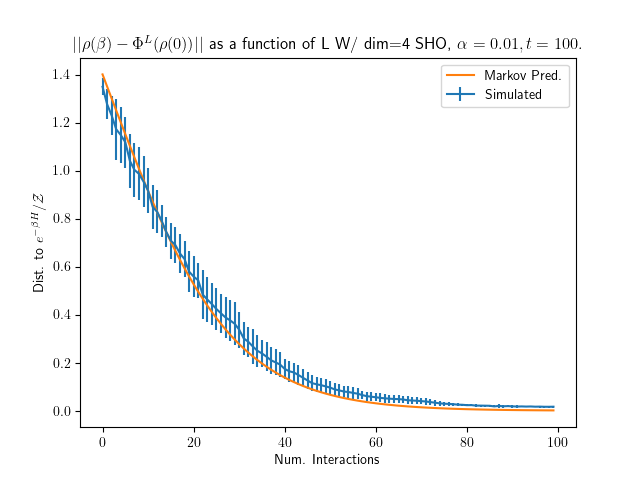
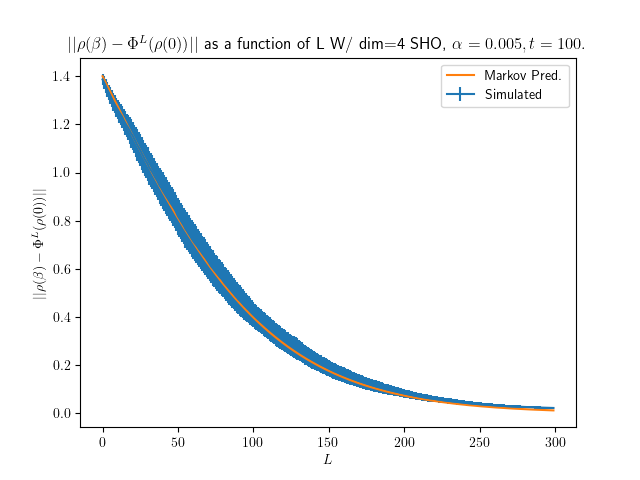
more data

diff --git a/numerics/qhmc.py b/numerics/qhmc.py
@@ -397,58 +397,51 @@ def test_beta():
         print("beta: ", beta)
         print("output error: ", qhmc.compute_error_with_target_beta())
 
-if __name__ == "__main__":
-    start = time_this.time()
-    alphas = np.linspace(0.0005, 2 * 0.0005, 2)
+def plot_sho_error_v_interaction():
+    
     time = 100.
-    epsilon = 0.05
-    n_int = 100
+    n_int = 300
     beta = 3.0
-    alpha = 0.01
+    alpha = 0.005
     dim = 4
-    # for alpha in alphas:
-    #     print('alpha = ', alpha)
-    #     (dist_means, dist_stds) = fixed_number_interactions(alpha, time, beta, n, num_samples=2)
-    #     end = time_this.time()
-        
-    #     print("took this many seconds: ", end - start)
-    #     plt.errorbar([ix for ix in range(1, n + 1)], dist_means, dist_stds, label="alpha=" + str(alpha))
-
-    # s = r"Error vs. number of interactions For Hydrogen 3 chain. $t = $"
-    # s += str(time)
-    # plt.xlabel("Num. Interactions")
-    # plt.ylabel(r"$|| \rho(\beta) - \Phi^L(\rho(0))||$")
-    # plt.title(s)
-    # plt.legend(loc="upper right")
-    # plt.savefig('/u/hagan/h3_chain_4')
-
     x = [ix for ix in range(n_int)]
-    y, yerr = fixed_number_interactions(harmonic_oscillator_hamiltonian(dim), alpha, time, beta, n_int, num_samples=8, gamma_strategy='fixed')
+    y, yerr = fixed_number_interactions(harmonic_oscillator_hamiltonian(dim), alpha, time, beta, n_int, num_samples=100, gamma_strategy='fixed')
     markov_pred = fixed_num_interactions_markov(dim, alpha, time, beta, n_int)
-
-    # print("x: ", x)
-    # print("y +- yerr: ", y, yerr)
-    # print('markov: ', markov_pred)
     plt.errorbar(x, y, yerr, label="Simulated")
     plt.plot(x, markov_pred, label="Markov Pred.")
     plt.legend(loc='upper right')
-    plt.ylabel(r"Dist. to $e^{-\beta H} / \mathcal{Z}$")
-    plt.xlabel("Num. Interactions")
-    plt.title(r'$|| \rho(\beta) - \Phi^L (\rho(0)) || $ as a function of L W/ dim=4 SHO, $\alpha = 0.01, t = 100.$')
+    plt.ylabel(r"$|| \rho(\beta) - \Phi^L (\rho(0)) ||$")
+    plt.xlabel(r"$L$")
+    plt.title(r'$|| \rho(\beta) - \Phi^L (\rho(0)) || $ as a function of L W/ dim=4 SHO, $\alpha = 0.005, t = 100.$')
     plt.show() 
+    return
 
-    # for beta_e in np.logspace(np.log10(1e-1), np.log10(5), 30,base=10.):
-    #     # beta_e = 0.0 + 0.3 * ix
-    #     print("computing beta_e = ", beta_e)
-    #     res = minimum_interactions(alpha, time, beta_e, epsilon, dim)
-    #     if res == None:
-    #         continue
-    #     x.append(beta_e)
-    #     y.append(res)
-    #     markov_pred.append(min_interactions_sho_markov_chain(beta_e, alpha, time, epsilon, dim))
+def plot_sho_interaction_v_beta():
+    alpha = 0.005
+    time = 100.
+    epsilon = 0.05
+    dim = 4
+    x = []
+    y = []
+    markov_pred = []
+    for beta_e in np.logspace(np.log10(1e-1), np.log10(dim), 30,base=10.):
+        # beta_e = 0.0 + 0.3 * ix
+        print("computing beta_e = ", beta_e)
+        res = minimum_interactions(alpha, time, beta_e, epsilon, dim)
+        if res == None:
+            continue
+        x.append(beta_e)
+        y.append(res)
+        markov_pred.append(min_interactions_sho_markov_chain(beta_e, alpha, time, epsilon, dim))
+    plt.plot(x, y, label="Simulated")
+    plt.plot(x, markov_pred, label="Markov Pred.")
+    plt.xlabel(r"$\beta$")
+    plt.ylabel("Num. Interactions")
+    plt.title(r"Minimum interactions needed for $|| \rho(\beta) - \Phi^L (\rho(0)) || < 0.05 $, $\alpha = 0.005, t = 100.0$")
+    plt.legend(loc="lower right")
+    plt.show()
+    return
 
-    
-
-    
-
-    
+if __name__ == "__main__":
+    start = time_this.time()
+    plot_sho_error_v_interaction()
